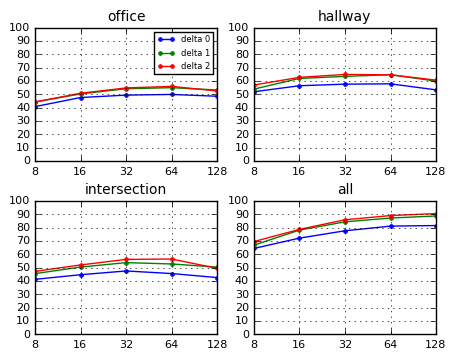
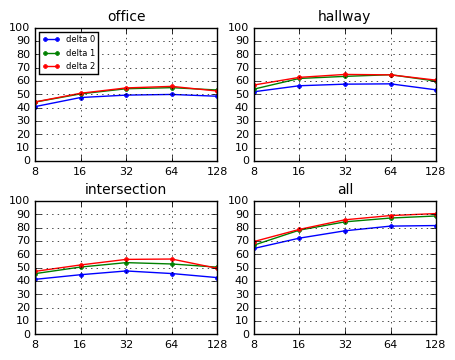
Remodeling appendices and inserting function to generate EER curves over M.

Changed region(s): [[0.0615, 0.0611, 0.2462, 0.2139], [0.3385, 0.0611, 0.4923, 0.2139]]

diff --git a/src/main.py b/src/main.py
@@ -152,56 +152,115 @@ def identify(gmm_dir, identify_dir, r=None):
 
 
 def draw_det_curves(verify_dir):
+    colors = ['b', 'g', 'r'] # colors: delta 0, delta 1 and delta 2
+    xticks = np.arange(0, 50, 5)
+    yticks = np.arange(0, 50, 5)
+
+    for M in Ms:
+        print('M = %d' % M)
+        position = 1
+
+        for environment in environments:
+            print(environment.upper())
+            gmms_key = 'GMMs %s' % environment
+            ax = pl.subplot(3, 3, position)
+            ax.set_title(environment, fontsize=10)
+            pl.grid(True)
+            ax.set_xlim([xticks[0], xticks[-1]])
+            ax.set_ylim([yticks[0], yticks[-1]])
+
+            if position > 3:
+                pl.subplots_adjust(hspace=0.45)
+            if position == 2 or position == 5:
+                pl.subplots_adjust(wspace=0.3)
+
+            position = position + 2 if position == 2 else position + 1
+            color_index = 0
+
+            for delta_order in delta_orders:
+                print('delta_order = %d' % delta_order)
+                PATH = '%smit_%d_%d/' % (verify_dir, numceps, delta_order)
+                DET_FILE_PATH = '%sdet_M_%d.json' % (PATH, M)
+                detfile = open(DET_FILE_PATH)
+                detdict = json.load(detfile)
+
+                false_detection = detdict[gmms_key]['false_detection']
+                false_rejection = detdict[gmms_key]['false_rejection']
+                pl.plot(false_detection, false_rejection, colors[color_index])
+                color_index = color_index + 1
+
+            pl.xlabel('false detection', fontsize=8)
+            pl.ylabel('false rejection', fontsize=8)
+            pl.xticks(xticks)
+            pl.yticks(yticks)
+
+            fontsize = 8
+            [tick.label.set_fontsize(fontsize) for tick in ax.xaxis.get_major_ticks()]
+            [tick.label.set_fontsize(fontsize) for tick in ax.yaxis.get_major_ticks()]
+
+        pl.subplot(3, 3, 1)
+        pl.legend(('delta 0','delta 1', 'delta 2'), loc='upper right', prop={'size':6})
+
+        DET_IMG_PATH = '%sdet_M_%d.png' % (verify_dir, M)
+        pl.savefig(DET_IMG_PATH, bbox_inches='tight')
+        pl.clf()
+
+
+def draw_eer_curves(verify_dir):
+    colors = ['b', 'g', 'r'] # colors: delta 0, delta 1 and delta 2
+    position = 1
+    xticks = np.array(Ms)
+    yticks = np.arange(0, 27.5, 2.5)
+
+    detdicts = dict()
     for delta_order in delta_orders:
-        print('delta_order = %d' % delta_order)
         for M in Ms:
-            print('M = %d' % M)
-            PATH = '%s%s/mit_%d_%d/' % (VERIFY_DIR, verify_dir, numceps, delta_order)
+            PATH = '%smit_%d_%d/' % (verify_dir, numceps, delta_order)
             DET_FILE_PATH = '%sdet_M_%d.json' % (PATH, M)
             detfile = open(DET_FILE_PATH)
-            detdict = json.load(detfile)
+            det_key = '%d %d' % (delta_order, M)
+            detdicts[det_key] = json.load(detfile)
 
-            colors = ['b', 'g', 'r', 'k'] # colors: office, hallway, intersection and all
-            position = 1
-            ticks = np.arange(10, 100, 10)
+    for environment in environments:
+        print(environment.upper())
+        gmms_key = 'GMMs %s' % environment
+        ax = pl.subplot(3, 3, position)
+        ax.set_title(environment, fontsize=10)
+        pl.grid(True)
+        ax.set_ylim([yticks[0], yticks[-1]])
 
-            pl.clf()
-            for environment in environments:
-                ubm_key = 'UBM %s' % environment
-                ax = pl.subplot(3, 3, position)
-                ax.set_title(environment, fontsize=10)
-                pl.grid(True)
-                pl.xticks(ticks)
-                pl.yticks(ticks)
+        if position > 3:
+            pl.subplots_adjust(hspace=0.3)
 
-                fontsize = 8
-                [tick.label.set_fontsize(fontsize) for tick in ax.xaxis.get_major_ticks()]
-                [tick.label.set_fontsize(fontsize) for tick in ax.yaxis.get_major_ticks()]
+        position = position + 2 if position == 2 else position + 1
+        color_index = 0
 
-                if position > 3:
-                    pl.subplots_adjust(hspace=0.45)
-                if position == 2 or position == 5:
-                    pl.subplots_adjust(wspace=0.3)
+        for delta_order in delta_orders:
+            eer_values = list()
 
-                position = position + 2 if position == 2 else position + 1
-                color_index = 0
+            for M in Ms:
+                det_key = '%d %d' % (delta_order, M)
+                detdict = detdicts[det_key]
+                eer_values.append(detdict[gmms_key]["EER"])
 
-                for environment in environments:
-                    scores_key = 'SCORES %s' % environment
-                    false_detection = detdict[ubm_key][scores_key]['false_detection']
-                    false_rejection = detdict[ubm_key][scores_key]['false_rejection']
-                    pl.plot(false_detection, false_rejection, colors[color_index])
-                    color_index = color_index + 1
+            pl.plot(Ms, eer_values, '.-%s' % colors[color_index])
+            color_index = color_index + 1
 
-                pl.xlabel('false detection', fontsize=7)
-                pl.ylabel('false rejection', fontsize=7)
+        pl.xticks(xticks)
+        pl.yticks(yticks)
 
-            pl.subplot(3, 3, 1)
-            pl.legend(('office','hallway', 'intersection', 'all'),
-                       loc='upper right', prop={'size':7})
+        fontsize = 8
+        [tick.label.set_fontsize(fontsize) for tick in ax.xaxis.get_major_ticks()]
+        [tick.label.set_fontsize(fontsize) for tick in ax.yaxis.get_major_ticks()]
+        ax.set_xscale('log', basex=2)
+        ax.xaxis.set_major_formatter(pl.ScalarFormatter())
 
-            DET_IMG_PATH = '%sdet_M_%d.png' % (PATH, M)
-            pl.savefig(DET_IMG_PATH, bbox_inches='tight')
+    pl.subplot(3, 3, 1)
+    pl.legend(('delta 0','delta 1', 'delta 2'), loc='lower left', prop={'size':6})
+
+    EER_IMG_PATH = '%seer.png' % verify_dir
+    pl.savefig(EER_IMG_PATH, bbox_inches='tight')
+    pl.clf()
 
 
 def draw_ident_curves(identify_dir):
@@ -246,7 +305,7 @@ def draw_ident_curves(identify_dir):
         ax.xaxis.set_major_formatter(pl.ScalarFormatter())
 
     pl.subplot(3, 3, 1)
-    pl.legend(('delta 0','delta 1', 'delta 2'), loc='upper right', prop={'size':6})
+    pl.legend(('delta 0','delta 1', 'delta 2'), loc='upper left', prop={'size':6})
 
     CURVES_IMG_PATH = '%scurves.png' % identify_dir
     pl.savefig(CURVES_IMG_PATH, bbox_inches='tight')
@@ -607,8 +666,11 @@ elif command == 'calc-det-curves':
     print('Total time: %f seconds' % t)
 
 elif command == 'draw-det-curves':
-    verify_dir = parameters[0]
+    verify = parameters[0]
+    verify_dir = '%s%s/' % (VERIFY_DIR, verify)
+
     print('Drawing DET Curve')
+    print('verify: %s' % verify)
     t = time.time()
 
     draw_det_curves(verify_dir)
@@ -626,6 +688,33 @@ elif command == 'draw-det-curves-all':
     for verify_dir in verify_dirs:
         print('verify_dir: %s' % verify_dir)
         draw_det_curves(verify_dir)
+
+    t = time.time() - t
+    print('Total time: %f seconds' % t)
+
+elif command == 'draw-eer-curves':
+    verify = parameters[0]
+    verify_dir = '%s%s/' % (VERIFY_DIR, verify)
+
+    print('Drawing EER curves')
+    t = time.time()
+
+    draw_eer_curves(verify_dir)
+
+    t = time.time() - t
+    print('Total time: %f seconds' % t)
+
+elif command == 'draw-eer-curves-all':
+    verify_dirs = os.listdir(VERIFY_DIR)
+    verify_dirs.sort()
+
+    print('Drawing all EER curves')
+    t = time.time()
+
+    for verify_dir in verify_dirs:
+        print(verify_dir)
+        verify_dir = '%s%s/' % (verify_DIR, verify_dir)
+        draw_eer_curves(verify_dir)
 
     t = time.time() - t
     print('Total time: %f seconds' % t)
@@ -717,8 +806,7 @@ elif command == 'identify-tables':
     top = '\\begin{table}[h]\n\t\\centering\n\t\\begin{tabular}{|c|c|\
 M{2cm}|M{2cm}|M{2cm}|M{2cm}|}\n\t\hline\n\t$\\boldsymbol{\Delta}$ & \\bf{M} & \
 \\bf{Office} & \\bf{Hallway} & \\bf{Intersection} & \\bf{All} \\\\\n\t\hline\n\t\hline'
-    bottom = '\n\t\end{tabular}\n\t\label{tab:%s}\n\end{table}'
-    bottom_cap = '\n\t\end{tabular}\n\t\caption{Identification rates for enrolled speakers.}\
+    bottom = '\n\t\end{tabular}\n\t\caption{Identification rates for enrolled speakers%s.}\
 \n\t\label{tab:%s}\n\end{table}'
 
     for directory in directories:
@@ -753,9 +841,11 @@ M{2cm}|M{2cm}|M{2cm}|M{2cm}|}\n\t\hline\n\t$\\boldsymbol{\Delta}$ & \\bf{M} & \
 
         tablename = 'identify_%s' % directory
         if directory == 'speakers':
-            table = '%s%s' % (table, bottom_cap % tablename)
+            caption_final = ''
         else:
-            table = '%s%s' % (table, bottom % tablename)
+            r_apx = directory[-4 : ]
+            caption_final = ' with $r = %s$' % r_apx
+        table = '%s%s' % (table, bottom % (caption_final, tablename))
         table = table.replace('\t', '%4s' % '')
 
         TABLE_FILE_PATH = '%s%s.tex' % (TABLES_DIR, tablename)
@@ -772,6 +862,7 @@ elif command == 'verify-tables':
 
     directories = os.listdir(VERIFY_DIR)
     directories.sort()
+    directories = ['speakers']
 
     print('Generating LaTeX tables for verification curves')
     t = time.time()
@@ -779,7 +870,7 @@ elif command == 'verify-tables':
     top = '\\begin{table}[h]\n\t\\centering\n\t\\begin{tabular}{|c|c|\
 M{2cm}|M{2cm}|M{2cm}|M{2cm}|}\n\t\hline\n\t$\\boldsymbol{\Delta}$ & \\bf{M} & \
 \\bf{Office} & \\bf{Hallway} & \\bf{Intersection} & \\bf{All} \\\\ \n\t\hline \n\t\hline'
-    bottom = '\n\t\end{tabular}\n\t\caption{EERs for enrolled speakers%s.}\
+    bottom = '\n\t\end{tabular}\n\t\caption{Verification EERs for enrolled speakers%s.}\
 \n\t\label{tab:%s}\n\end{table}'
 
     for directory in directories:

diff --git a/docs/paper/chapters/results-identify-ssfgmm.tex b/docs/paper/chapters/results-identify-ssfgmm.tex
@@ -1,56 +1,51 @@
 \chapter{Results for Identification using SSFGMM}
 \label{apx:results-identify-ssfgmm}
 
-\section{Table and curves for $r = 0.95$}
-
 \input{chapters/tables/identify_speakers_0.95}
 
 \begin{figure}[ht]
     \centering
     \includegraphics{chapters/results-identify-ssfgmm/r-095}
+    \caption{Identification rates for enrolled speakers with $r = 0.95$.}
     \label{fig:r-095}
 \end{figure}
 
 \newpage
-\section{Table and curves for $r = 0.99$}
-
 \input{chapters/tables/identify_speakers_0.99}
 
 \begin{figure}[ht]
     \centering
     \includegraphics{chapters/results-identify-ssfgmm/r-099}
+    \caption{Identification rates for enrolled speakers with $r = 0.99$.}
     \label{fig:r-099}
 \end{figure}
 
 \newpage
-\section{Table and curves for $r = 1$}
-
 \input{chapters/tables/identify_speakers_1.00}
 
 \begin{figure}[ht]
     \centering
     \includegraphics{chapters/results-identify-ssfgmm/r-100}
+    \caption{Identification rates for enrolled speakers with $r = 1.00$.}
     \label{fig:r-100}
 \end{figure}
 
 \newpage
-\section{Table and curves for $r = 1.01$}
-
 \input{chapters/tables/identify_speakers_1.01}
 
 \begin{figure}[ht]
     \centering
     \includegraphics{chapters/results-identify-ssfgmm/r-101}
+    \caption{Identification rates for enrolled speakers with $r = 1.01$.}
     \label{fig:r-101}
 \end{figure}
 
 \newpage
-\section{Table and curves for $r = 1.05$}
-
 \input{chapters/tables/identify_speakers_1.05}
 
 \begin{figure}[ht]
     \centering
     \includegraphics{chapters/results-identify-ssfgmm/r-105}
+    \caption{Identification rates for enrolled speakers with $r = 1.05$.}
     \label{fig:r-105}
 \end{figure}

diff --git a/docs/paper/chapters/experiments.tex b/docs/paper/chapters/experiments.tex
@@ -88,7 +88,7 @@ As seen in the tables above and in \figureref{identification-curves-speakers}, f
 \begin{figure}[ht]
     \centering
     \includegraphics{chapters/experiments/identification-curves-speakers}
-    \caption{Curves of identification rates for enrolled speakers.}
+    \caption{Identification rates for enrolled speakers.}
     \label{fig:identification-curves-speakers}
 \end{figure}
 
@@ -108,5 +108,14 @@ The choice of values for $r$ was made using
 A comparison of \tableref{identify_speakers} and \figureref{identification-curves-speakers} with the tables and figures from \appendixref{results-identify-ssfgmm} indicates that SSFGMMs trained using utterances from all environments and values 0.99, 1 and 1.01 for $r$ present similar speaker identification success rates to the experiment using SSGMM. The differences are around 1 percentage point, what may not be characterized as an improvement before further investigations (a slightly better success rate may be attributed to the random initialization of the model).
 
 \subsection{Speaker Verification using SSGMM}
+
+\input{chapters/tables/verify_speakers}
+
+\begin{figure}[ht]
+    \centering
+    \includegraphics{chapters/experiments/verification-eer-speakers}
+    \caption{Verification EERs over $M$ for enrolled speakers.}
+    \label{fig:verification-eer-speakers}
+\end{figure}
 
 %\subsection{Speaker Verification using SSAGMM}

diff --git a/docs/paper/chapters/results-verify-ssgmm.tex b/docs/paper/chapters/results-verify-ssgmm.tex
@@ -1,14 +1,2 @@
 \chapter{Results for Verification using SSGMM}
 \label{apx:results-verify-ssgmm}
-
-\input{chapters/tables/verify_speakers}
-
-\section{DET curves for $M = 8$}
-
-\section{DET curves for $M = 16$}
-
-\section{DET curves for $M = 32$}
-
-\section{DET curves for $M = 64$}
-
-\section{DET curves for $M = 128$}

diff --git a/docs/paper/chapters/tables/verify_speakers.tex b/docs/paper/chapters/tables/verify_speakers.tex
@@ -38,6 +38,6 @@
      & \bf{128} & 19.80 & 17.94 & 21.26 & 6.40 \\
     \hline
     \end{tabular}
-    \caption{EERs for enrolled speakers.}
+    \caption{Verification EERs for enrolled speakers.}
     \label{tab:verify_speakers}
 \end{table}

diff --git a/docs/paper/chapters/tables/identify_speakers_0.95.tex b/docs/paper/chapters/tables/identify_speakers_0.95.tex
@@ -38,5 +38,6 @@
      & \bf{128} & 39.16 & 37.89 & 23.26 & 73.53 \\
     \hline
     \end{tabular}
+    \caption{Identification rates for enrolled speakers with $r = 0.95$.}
     \label{tab:identify_speakers_0.95}
 \end{table}

diff --git a/docs/paper/chapters/tables/identify_speakers_0.99.tex b/docs/paper/chapters/tables/identify_speakers_0.99.tex
@@ -38,5 +38,6 @@
      & \bf{128} & 50.23 & 54.17 & 46.03 & 88.43 \\
     \hline
     \end{tabular}
+    \caption{Identification rates for enrolled speakers with $r = 0.99$.}
     \label{tab:identify_speakers_0.99}
 \end{table}

diff --git a/docs/paper/chapters/tables/identify_speakers_1.00.tex b/docs/paper/chapters/tables/identify_speakers_1.00.tex
@@ -38,5 +38,6 @@
      & \bf{128} & 52.55 & 60.73 & 49.58 & 90.66 \\
     \hline
     \end{tabular}
+    \caption{Identification rates for enrolled speakers with $r = 1.00$.}
     \label{tab:identify_speakers_1.00}
 \end{table}

diff --git a/docs/paper/chapters/tables/identify_speakers_1.01.tex b/docs/paper/chapters/tables/identify_speakers_1.01.tex
@@ -38,5 +38,6 @@
      & \bf{128} & 55.02 & 63.54 & 56.33 & 90.55 \\
     \hline
     \end{tabular}
+    \caption{Identification rates for enrolled speakers with $r = 1.01$.}
     \label{tab:identify_speakers_1.01}
 \end{table}

diff --git a/docs/paper/chapters/tables/identify_speakers_1.05.tex b/docs/paper/chapters/tables/identify_speakers_1.05.tex
@@ -38,5 +38,6 @@
      & \bf{128} & 57.68 & 67.52 & 62.00 & 77.55 \\
     \hline
     \end{tabular}
+    \caption{Identification rates for enrolled speakers with $r = 1.05$.}
     \label{tab:identify_speakers_1.05}
 \end{table}
